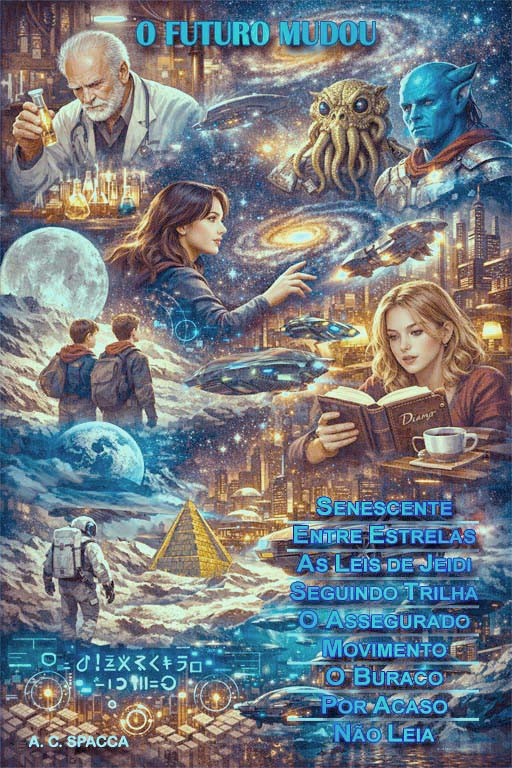
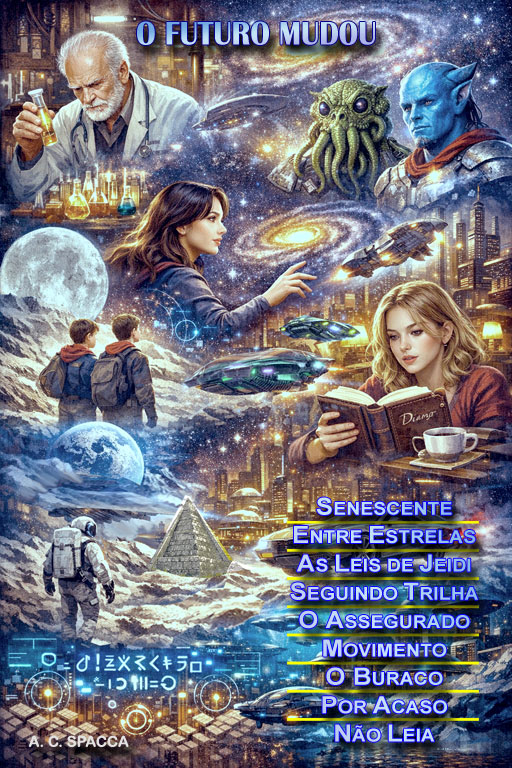
Tilted poster

diff --git a/index.html b/index.html
@@ -41,9 +41,9 @@
             <div class="book-card">
                 <div class="image-stack">
                     <img src="images/foradacerca.jpg" class="lang lang-pt book-cover" onclick="switchContent('book1-pt')" id="book1-pt">
-                    <img src="images/foradacercaposter.jpg" height="90px" class="lang lang-pt" onclick="openPopup('images/foradacercaposter.jpg')">
+                    <img src="images/foradacercaposter.jpg" height="90px" class="lang lang-pt poster tilt-ccw" onclick="openPopup('images/foradacercaposter.jpg')">
                     <img src="images/overthefence.jpg" class="lang lang-en book-cover" id="book1-en">
-                    <img src="images/foradacercaposter.jpg" height="90px" class="lang lang-en" onclick="openPopup('images/foradacercaposter.jpg')">
+                    <img src="images/overthefenceposter.jpg" height="90px" class="lang lang-en poster tilt-ccw" onclick="openPopup('images/overthefenceposter.jpg')">
                 </div>
                 <div class="book-info">
                     <h3 class="lang lang-pt">Fora da Cerca</h3>
@@ -68,10 +68,8 @@
                     </div>
                     <div class="purchase-links">
                         <!-- <a href="#"><img src="images/amazon.png" alt="Amazon">Amazon</a> -->
-                        <a href="https://produto.mercadolivre.com.br/MLB-4514346105-livro-fora-da-cerca-sete-contos-da-roca-estranho-e-assustador-_JM"
-                            target="_blank"><img src="images/mercadolivre.png" alt="Mercado Livre">Mercado Livre</a>
-                        <a href="https://play.google.com/store/books/details?id=aRahEQAAQBAJ" target="_blank"><img
-                                src="images/playbooks.png" alt="PlayStore">PlayBooks</a>
+                        <a href="https://produto.mercadolivre.com.br/MLB-4514346105-livro-fora-da-cerca-sete-contos-da-roca-estranho-e-assustador-_JM" target="_blank" id="b1ml"><img src="images/mercadolivre.png" alt="Mercado Livre">Mercado Livre</a>
+                        <a href="https://books.google.com.br/books/about?id=aRahEQAAQBAJ&redir_esc=y" target="_blank" id="b1link"><img src="images/playbooks.png" alt="PlayStore">PlayBooks</a>
                     </div>
                 </div>
             </div>
@@ -81,9 +79,9 @@
                 <span class="lang lang-en badge">New</span>
                 <div class="image-stack">
                     <img src="images/ofuturomudou.jpg" class="lang lang-pt book-cover" onclick="switchContent('book2-pt')" id="book2-pt">
-                    <img src="images/ofuturomudouposter.jpg" height="90px" class="lang lang-pt" onclick="openPopup('images/ofuturomudouposter.jpg')">
-                    <img src="images/ofuturomudou.jpg" class="lang lang-en book-cover" id="book2-en">
-                    <img src="images/ofuturomudouposter.jpg" height="90px" class="lang lang-en" onclick="openPopup('images/ofuturomudouposter.jpg')">
+                    <img src="images/ofuturomudouposter.jpg" height="90px" class="lang lang-pt poster tilt-ccw" onclick="openPopup('images/ofuturomudouposter.jpg')">
+                    <img src="images/thefuturechanged.jpg" class="lang lang-en book-cover" id="book2-en">
+                    <img src="images/thefuturechangedposter.jpg" height="90px" class="lang lang-en poster tilt-ccw" onclick="openPopup('images/thefuturechangedposter.jpg')">
                 </div>
                 <div class="book-info">
                     <h3 class="lang lang-pt">O Futuro Mudou</h3>
@@ -104,10 +102,8 @@
                         doubt: Is this fiction or reality?</p>
                     <div class="purchase-links">
                         <!-- <a href="#"><img src="images/amazon.png" alt="Amazon">Amazon</a> -->
-                        <a href="https://produto.mercadolivre.com.br/MLB-6449155918-livro-o-futuro-mudou-revelacoes-da-inteligncia-artificial-estranho-e-assustador-_JM"
-                            target="_blank"><img src="images/mercadolivre.png" alt="Mercado Livre">Mercado Livre</a>
-                        <a href="https://play.google.com/store/books/details/A_C_SPACCA_O_FUTURO_MUDOU?id=JSPHEQAAQBAJ"
-                            target="_blank"><img src="images/playbooks.png" alt="PlayStore">PlayBooks</a>
+                        <a href="https://produto.mercadolivre.com.br/MLB-6449155918-livro-o-futuro-mudou-revelacoes-da-inteligncia-artificial-estranho-e-assustador-_JM" target="_blank" id="b2ml"><img src="images/mercadolivre.png" alt="Mercado Livre">Mercado Livre</a>
+                        <a href="https://books.google.com.br/books/about?id=sG6hEQAAQBAJ&redir_esc=y" target="_blank"><img src="images/playbooks.png" alt="PlayStore">PlayBooks</a>
                     </div>
                 </div>
             </div>
@@ -262,7 +258,8 @@
     </div>
 
     <!-- Popup Modal -->
-    <div id="popup" class="popup">
+    <div id="popup" class="popup" onclick="closePopup()">
+        <span class="popupclose" style="margin-top:3px;margin-left:3px;color:black;">&times;</span>
         <span class="popupclose" onclick="closePopup()">&times;</span>
         <img id="popup-img" src="" alt="Popup Image">
     </div>
@@ -275,6 +272,15 @@
         function showLanguage(lang) {
             document.querySelectorAll('.lang').forEach(el => el.classList.remove('active'));
             document.querySelectorAll('.lang-' + lang).forEach(el => el.classList.add('active'));
+            if(lang=='pt'){
+                document.getElementById('b1ml').style.display = '';
+                document.getElementById('b2ml').style.display = '';
+            } else {
+                document.getElementById('b1ml').style.display = 'none';
+                document.getElementById('b1link').href = 'https://books.google.com.br/books/about?id=sG6hEQAAQBAJ&redir_esc=y';
+                document.getElementById('b2ml').style.display = 'none';
+                
+            }
         }
         function switchContent(bookId) {
             const book = document.getElementById(bookId);

diff --git a/style.css b/style.css
@@ -299,6 +299,7 @@ footer a:hover {
   max-width: 90%;
   max-height: 90%;
   border:  2px solid goldenrod;
+  border-radius: 8px;
 }
 
 .popupclose {
@@ -358,7 +359,6 @@ footer a:hover {
     flex: 1 1 300px;
     display: flex;
     flex-direction: column;
-    /* mobile default */
     align-items: center;
     text-align: center;
     box-shadow: 0 4px 6px rgba(0, 0, 0, 0.1);
@@ -434,6 +434,15 @@ footer a:hover {
     text-align: center;
 }
 
+.poster{
+    margin-top:-60px;
+    margin-left:90px;
+    border:1px solid goldenrod;
+    border-radius: 4px;
+    box-shadow: 0 4px 6px rgba(0, 0, 0, 0.1);
+    transition: transform 0.3s ease;
+}
+
 .holo-border {
     border: 3px solid;
     border-radius: 20px;
@@ -445,6 +454,12 @@ footer a:hover {
   to { border-image-source: linear-gradient(45deg, #8ea2c999, #3b608b99, #0000ff99, #bfe8ff99, #679ddb99); }
 }
 
+.rotate-ccw {
+  transform: rotate(-90deg); /* negative = counterclockwise */
+}
+.tilt-ccw {
+  transform: rotate(45deg); /* negative = counterclockwise */
+}
 .lang {
   display: none; /* hide by default */
 }
@@ -540,6 +555,9 @@ footer a:hover {
 
 @media (max-width: 480px) {
     .book-info h3 {
+        display: none!important;
+    }
+    .books h2 {
         display: none!important;
     }
     .book-info h4 {
